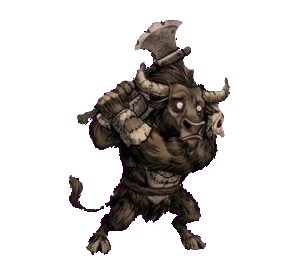
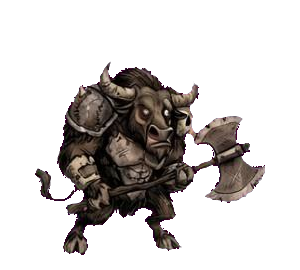
Start Minotaur attack from final pose

diff --git a/test_v2_motion.js b/test_v2_motion.js
@@ -157,7 +157,7 @@ assert(fs.existsSync(path.join(root, "art/v2-style/animation-sheets/green-raw/ic
 assert(fs.existsSync(path.join(root, "art/v2-style/animation-sheets/green-raw/yeti-animation-sheet.jpg")), "New raw Yeti sheet is missing.");
 assert(fs.existsSync(path.join(root, "art/v2-style/animation-sheets/green-raw/ghoul-animation-sheet.jpg")), "New raw Ghoul sheet is missing.");
 assert(fs.existsSync(path.join(root, "art/v2-style/animation-sheets/green-raw/minotaur-animation-sheet.jpg")), "New raw Minotaur sheet is missing.");
-assert(serviceWorker.includes("necromancer-expedition-v87"), "Service worker cache version was not bumped.");
+assert(serviceWorker.includes("necromancer-expedition-v88"), "Service worker cache version was not bumped.");
 assert(!serviceWorker.includes("animation-sheets/uploaded-raw"), "Deleted legacy animation sheets remain in offline cache.");
 assert(!serviceWorker.includes("animation-test-crops"), "Deleted comparison crops remain in offline cache.");
 for (const match of serviceWorker.matchAll(/^\s*"(\.\/[^"?]+)(?:\?[^\"]*)?"[,]?$/gm)) {

diff --git a/service-worker.js b/service-worker.js
@@ -1,4 +1,4 @@
-const CACHE_NAME = "necromancer-expedition-v87";
+const CACHE_NAME = "necromancer-expedition-v88";
 const APP_SHELL = [
   "./",
   "./index.html",
